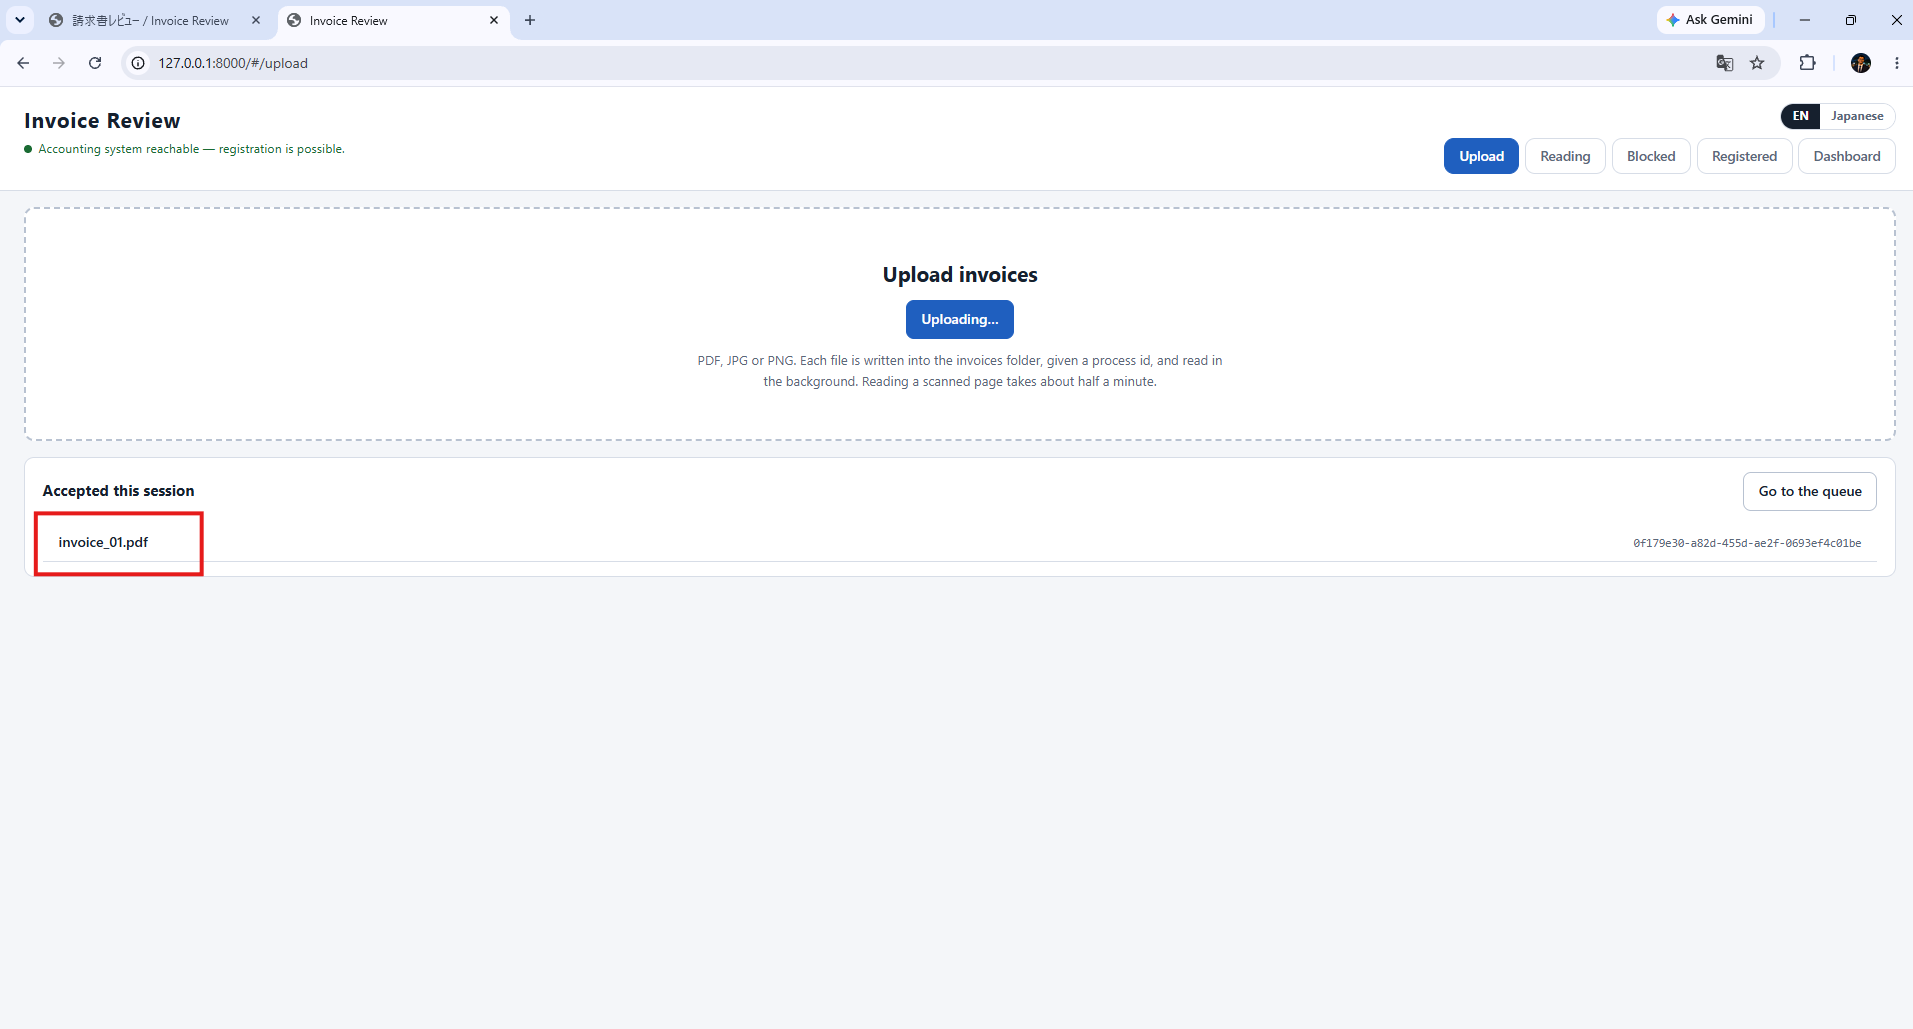
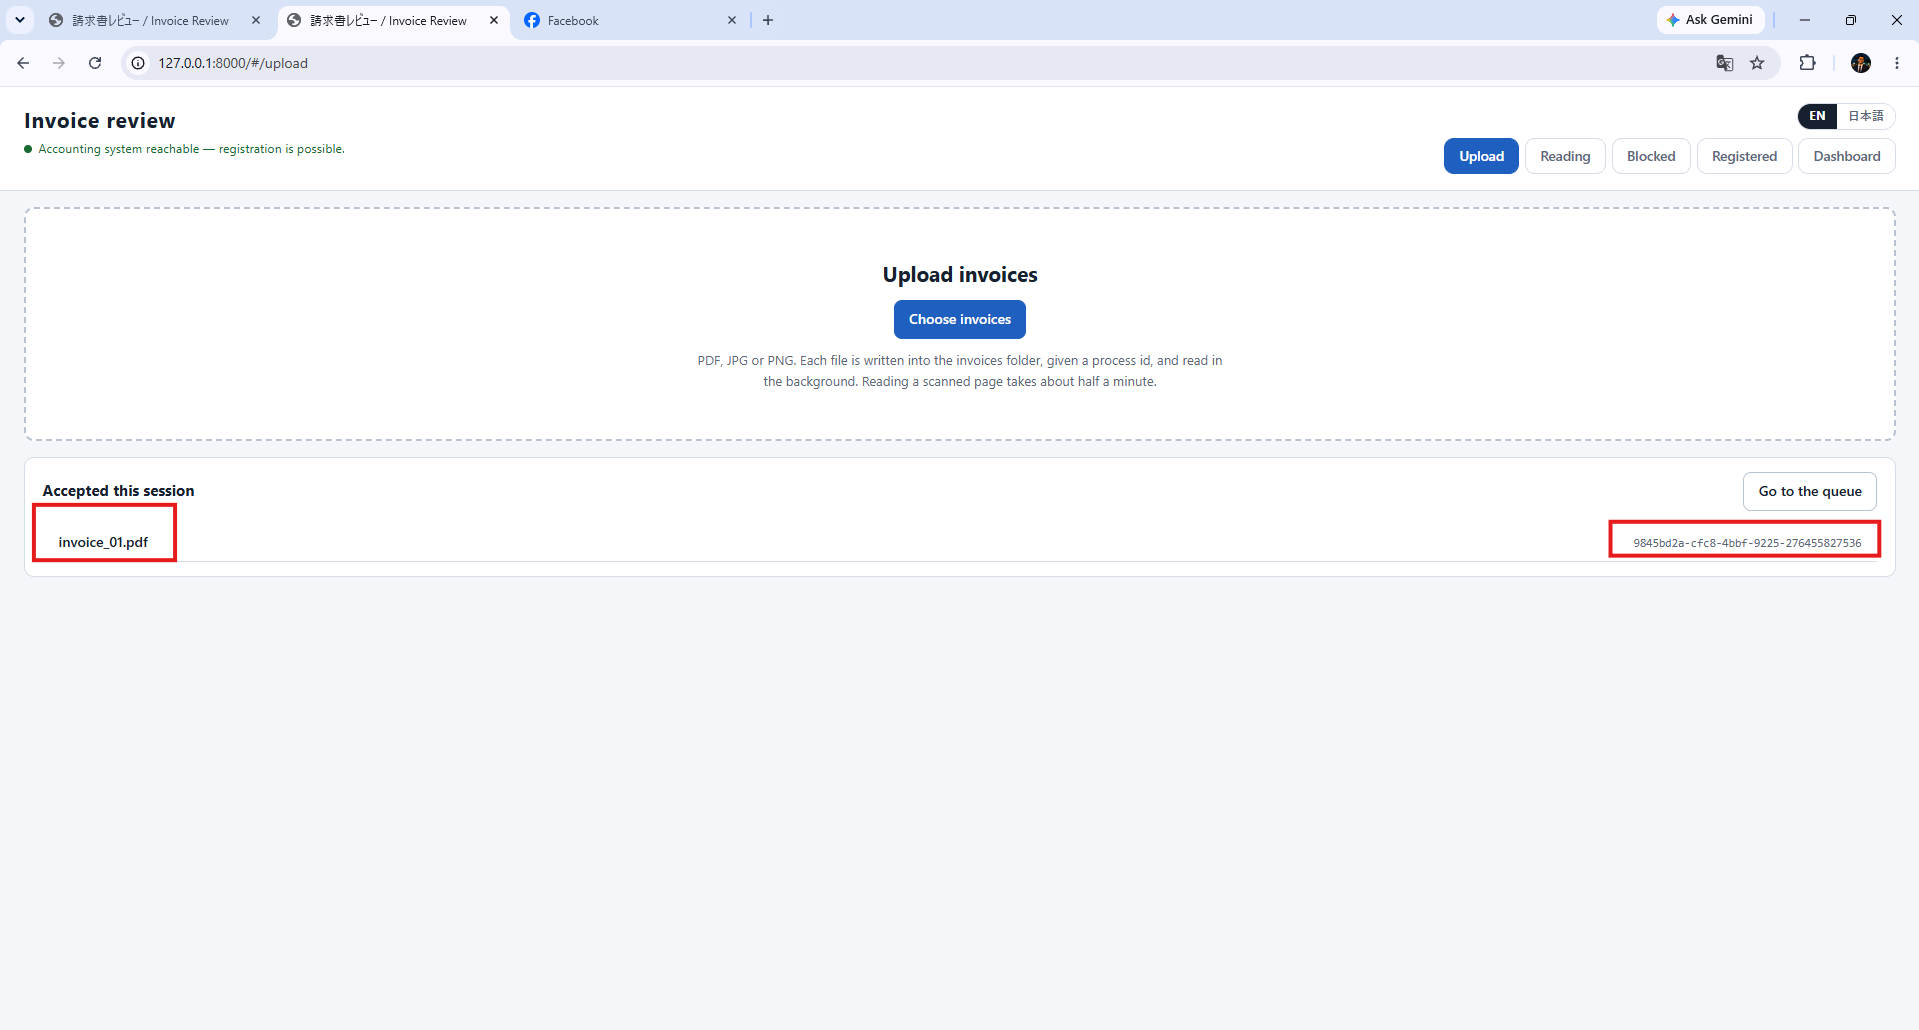
show an unregistered document being read and registered again

diff --git a/README.md b/README.md
@@ -176,7 +176,7 @@ it goes back to the queue.
 
 ### 2.5 Verification
 
-![The seven checks](public/screenshots/10-duplicate-blocked.png)
+![The seven checks](public/screenshots/11-duplicate-blocked.png)
 
 Seven checks run on every extraction and on every correction. All seven must pass before anything is
 sent onward. Each one states its result, what it protects against, and the numbers it used.
@@ -199,7 +199,7 @@ When all seven pass, the invoice is registered automatically. No button, no conf
 
 ### 2.6 Blocked
 
-![Blocked tab](public/screenshots/12-blocked-list.png)
+![Blocked tab](public/screenshots/13-blocked-list.png)
 
 A document that fails any check goes to **Blocked** and stops there. The tab shows the score at a
 glance: `6/7` for a document with one failure, `1/7` for one the model barely read.
@@ -223,7 +223,7 @@ copies that were verified at the same moment cannot both be registered.
 
 ### 2.7 Review and revalidate
 
-![Review screen](public/screenshots/11-edit-and-revalidate.png)
+![Review screen](public/screenshots/12-edit-and-revalidate.png)
 
 The source page sits on the left and the extracted data on the right, so the reviewer reads the paper
 and fixes the data without switching windows.
@@ -282,9 +282,14 @@ numbers them in the order it receives them.
 There is one confirmation step. It cannot be undone.
 
 The app no longer knows the unregistered invoice, so the file can be uploaded again and read like any
-other new file.
+other new file. It gets a new process id.
 
 ![Reading an unregistered document again](public/screenshots/09-read-again.png)
+
+Nothing about the invoice blocks it the second time. The document it used to duplicate is gone, so if
+all seven checks pass it registers again and is given a fresh accounting id.
+
+![The re-read document registered again](public/screenshots/10-re-registered.png)
 
 ---
 
